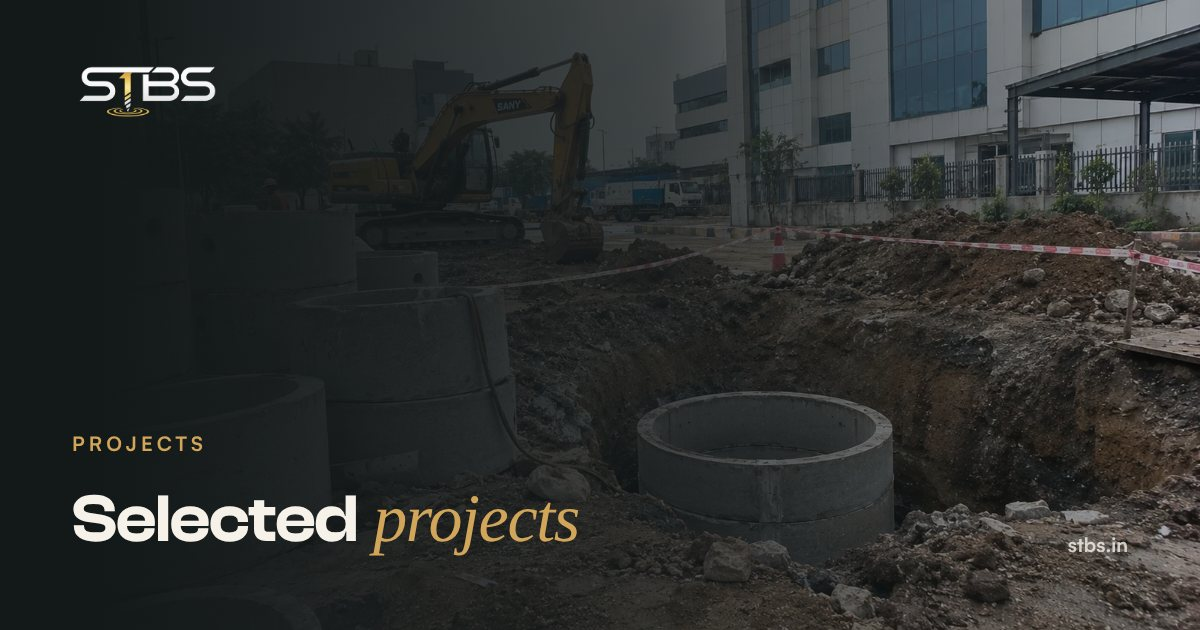
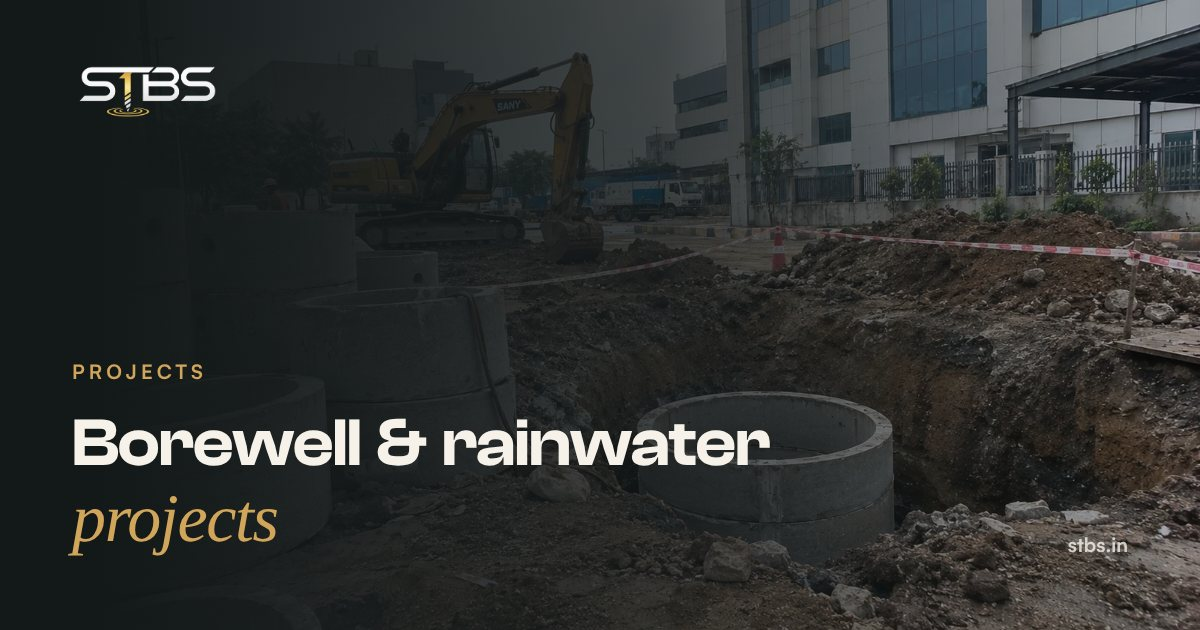
SEO: clearer page headings, projects title, hide empty gallery (#28)
- Homepage hero defaults: "Borewell & tubewell contractors for factories and commercial sites across Delhi NCR", Bahalgarh, Sonipat base in the subline, "Book a site visit".
- About, Contact and Quote default headings name the business or service.
- Water Testing H1 and Projects H1/title name the service; /gallery is noindex while empty.
- Home, Water Testing and Projects social cards re-rendered.
- test:services and test:seo brought up to date with the site.

Changed region(s): [[0.0617, 0.6635, 0.6475, 0.754], [0.0617, 0.7841, 0.4933, 0.8746], [0.0617, 0.573, 0.185, 0.6032]]

diff --git a/app/(public)/water-testing/page.tsx b/app/(public)/water-testing/page.tsx
@@ -5,4 +5,4 @@ import { ServiceDetailPage } from "@/components/public/service-detail-page";
 import { pageMetadata } from "@/lib/page-metadata";
 import { SEO } from "@/lib/website/seo-copy";
 export const metadata: Metadata = pageMetadata({ ...SEO["water-testing"], path: "/water-testing", absoluteTitle: true });
-export default function WaterTesting() { return <ServiceDetailPage slug="water-testing" eyebrow="Water testing" title="Know the Ground Before You *Drill*" intro="A ground survey up to 800 m before the bore is drilled, and yield and water-quality tests after it is built." diagram={<SurveyDiagram />} diagramTitle="How the survey works" icon={ScanSearch} specsTitle="What you receive" specs={["Survey reach: up to 800 m", "Water-bearing zones located", "Recommended drilling point and depth", "Yield, water level and quality results"]} bullets={["Electrical ground survey down to 800 m", "Drilling point and depth fixed before drilling", "Written survey report with the recommendation", "Yield and water-level test after drilling", "Water-quality check (key parameters such as TDS and pH)"]} image="/services/water-testing-survey.webp" imageAlt="A surveyor with a resistivity meter and electrodes laid along a field, explaining the survey to a farmer"/>; }
+export default function WaterTesting() { return <ServiceDetailPage slug="water-testing" eyebrow="Water testing" title="Groundwater Survey & *Water Testing*" intro="A ground survey up to 800 m before the bore is drilled, and yield and water-quality tests after it is built." diagram={<SurveyDiagram />} diagramTitle="How the survey works" icon={ScanSearch} specsTitle="What you receive" specs={["Survey reach: up to 800 m", "Water-bearing zones located", "Recommended drilling point and depth", "Yield, water level and quality results"]} bullets={["Electrical ground survey down to 800 m", "Drilling point and depth fixed before drilling", "Written survey report with the recommendation", "Yield and water-level test after drilling", "Water-quality check (key parameters such as TDS and pH)"]} image="/services/water-testing-survey.webp" imageAlt="A surveyor with a resistivity meter and electrodes laid along a field, explaining the survey to a farmer"/>; }

diff --git a/scripts/test-service-pages.ts b/scripts/test-service-pages.ts
@@ -8,15 +8,16 @@ function check(label: string, fn: () => void) {
   console.log(`  ok  ${label}`);
 }
 
-// The brief fixes these four URLs; they must never change.
+// The brief fixes these URLs (Water Testing joined later); they must never change.
 const EXPECTED: Array<[string, string]> = [
+  ["water-testing", "/water-testing"],
   ["borewell-drilling", "/borewell-drilling"],
   ["rainwater-harvesting", "/rainwater-harvesting"],
   ["borewell-material-supply", "/borewell-material-supply"],
   ["tubewell-construction", "/tubewell-construction"],
 ];
 
-check("exactly four service pages, in brief order", () => {
+check("exactly five service pages, in brief order", () => {
   assert.deepEqual(SERVICE_PAGES.map((p) => p.slug), EXPECTED.map(([s]) => s));
 });
 
@@ -26,7 +27,7 @@ for (const [slug, href] of EXPECTED) {
 }
 
 check("whitespace and trailing slash are tolerated", () => assert.equal(serviceHref("  borewell-drilling/ "), "/borewell-drilling"));
-check("unknown slug degrades to /services, never a 404 route", () => assert.equal(serviceHref("water-testing"), "/services"));
+check("unknown slug degrades to /services, never a 404 route", () => assert.equal(serviceHref("pump-repair"), "/services"));
 check("empty / null / undefined -> /services", () => {
   assert.equal(serviceHref(""), "/services");
   assert.equal(serviceHref(null), "/services");
@@ -39,7 +40,7 @@ check("servicePageFor returns the page for a known slug only", () => {
 });
 check("card titles are short (icon + short title only)", () => {
   for (const p of SERVICE_PAGES) assert.ok(p.title.length <= 24, `${p.title} too long`);
-  assert.equal(SERVICE_PAGES[2].title, "Material Supply");
+  assert.equal(servicePageFor("borewell-material-supply")?.title, "Material Supply");
 });
 check("every route is unique and site-root relative", () => {
   const hrefs = SERVICE_PAGES.map((p) => p.href);

diff --git a/lib/website/page-defaults.ts b/lib/website/page-defaults.ts
@@ -20,7 +20,7 @@ export const ABOUT_SECTIONS: DefaultSection[] = [
     position: 0,
     content: {
       eyebrow: "Our company",
-      heading: "Built from the ground down.",
+      heading: "Borewell and tubewell contractors since 1992.",
       text: "Saini Tubewell Boring Service was established in 1992 and has grown as a trusted provider of borewell, material supply and rainwater harvesting services.",
     },
   },
@@ -180,7 +180,7 @@ export const CONTACT_SECTIONS: DefaultSection[] = [
     position: 0,
     content: {
       eyebrow: "Contact",
-      heading: "Start with the requirement.",
+      heading: "Contact Saini Tubewell in Sonipat.",
       text: "Tell us what service you need and where the project is located. We will use that information to guide the next conversation.",
     },
   },
@@ -214,7 +214,7 @@ export const QUOTE_SECTIONS: DefaultSection[] = [
     position: 0,
     content: {
       eyebrow: "Start a project",
-      heading: "Tell us what the site needs.",
+      heading: "Request a borewell or tubewell quote.",
       text: "Share the basic project details. The request form is structured to help the team understand your service and site requirements.",
     },
   },

diff --git a/lib/website/home-defaults.ts b/lib/website/home-defaults.ts
@@ -11,10 +11,10 @@ export const HOME_HERO = {
   style: "intro",
   introTagline: "GO DEEPER BUILD STRONGER",
   eyebrow: "Trusted since 1992",
-  heading: "Water infrastructure for *industrial & commercial* sites",
+  heading: "Borewell & tubewell contractors for *factories and commercial sites* across Delhi NCR",
   headingLine2: "",
-  supportingText: "Water testing, borewell drilling, tubewell construction, material supply and rainwater recharge across Haryana & NCR.",
-  primaryCtaText: "Get a site assessment",
+  supportingText: "From our base in Bahalgarh, Sonipat, we test the ground, drill the borewell and build the tubewell with one team.",
+  primaryCtaText: "Book a site visit",
   primaryCtaUrl: "/quote",
   // No company profile PDF exists yet (owner, 2026-09-19), so there is no secondary button.
   // To add one later: upload public/docs/stbs-company-profile.pdf and set these two fields in Website -> Home -> Hero.

diff --git a/app/(public)/gallery/page.tsx b/app/(public)/gallery/page.tsx
@@ -32,7 +32,9 @@ const FALLBACK_SECTIONS = [
 ];
 
 export async function generateMetadata(): Promise<Metadata> {
-  const meta = await getPublishedPageMeta(SLUG);
+  const [meta, cmsPage, items] = await Promise.all([getPublishedPageMeta(SLUG), getPublishedPage(SLUG), getPublishedGalleryItems()]);
+  // Keep the "photos are being prepared" empty state out of Google until a photo is published.
+  if (!cmsPage?.sections.length && !items?.length) return { ...pageMetadata({ ...SEO.gallery, path: "/gallery", absoluteTitle: true }), robots: { index: false, follow: true } };
   if (meta && meta.seoTitle) return pageMetadata({ title: meta.seoTitle, description: meta.metaDescription ?? SEO.gallery.description, path: "/gallery", image: meta.ogImage });
   return pageMetadata({ ...SEO.gallery, path: "/gallery", absoluteTitle: true });
 }

diff --git a/scripts/test-seo.ts b/scripts/test-seo.ts
@@ -77,7 +77,7 @@ check("titles and descriptions are unique across pages", () => {
   assert.equal(new Set(d).size, d.length);
 });
 check("local keywords appear naturally: Sonipat on the service pages, no keyword stuffing", () => {
-  for (const k of ["borewell-drilling", "rainwater-harvesting", "borewell-material-supply", "tubewell-construction"] as const) assert.match(SEO[k].title, /Sonipat/, k);
+  for (const k of ["borewell-drilling", "rainwater-harvesting", "tubewell-construction"] as const) assert.match(SEO[k].title, /Sonipat/, k);
   for (const [k, v] of Object.entries(SEO)) {
     const sonipat = (v.title + " " + v.description).match(/Sonipat/g)?.length ?? 0;
     assert.ok(sonipat <= 2, `${k} repeats Sonipat ${sonipat} times`);

diff --git a/components/public/sections.tsx b/components/public/sections.tsx
@@ -958,7 +958,7 @@ function MapSection({ owner, content }: { owner?: RenderableSection; content: Re
 
 function QuoteIntroSection({ owner, content }: { owner?: RenderableSection; content: Record<string, unknown> }) {
   const eyebrow = str(content, "eyebrow", "Start a project");
-  const heading = str(content, "heading", "Tell us what the site needs.");
+  const heading = str(content, "heading", "Request a borewell or tubewell quote.");
   const steps = arr(content, "steps");
   const target = asSection(owner);
   // Seed data stores plain strings; the editor stores { step } rows. Accept both.

diff --git a/lib/website/seo-copy.ts b/lib/website/seo-copy.ts
@@ -50,7 +50,7 @@ export const SEO = {
     description: "Water infrastructure work for Ashoka University, Amul, BigBasket, LT Foods, voestalpine and 20+ industrial, commercial and institutional clients in Haryana.",
   },
   projects: {
-    title: "Rainwater Harvesting Projects, Sonipat | Saini Tubewell",
+    title: "Borewell & Rainwater Harvesting Projects | Saini Tubewell",
     description: "Rainwater harvesting and borewell projects for industrial, institutional and commercial sites in Sonipat and Kundli, Haryana: scope, sizes and locations.",
   },
   contact: {

diff --git a/app/(public)/projects/page.tsx b/app/(public)/projects/page.tsx
@@ -25,7 +25,7 @@ export default async function ProjectsPage() {
       <section className="section-y">
         <div className="container-x">
           <p className="t-eyebrow">Projects</p>
-          <h1 className="t-h2 mt-u2 text-block">Selected projects</h1>
+          <h1 className="t-h2 mt-u2 text-block">Borewell and rainwater harvesting projects</h1>
           <p className="t-body measure mt-u3">
             Borewell, tubewell and rainwater harvesting work for industrial, institutional and commercial sites in Haryana.
           </p>
